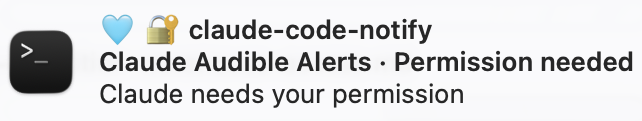
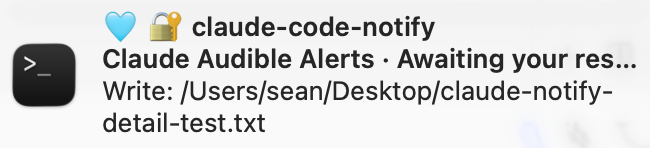
fix: shorter labels, unique grouping by default; drop tool-name detail
Three findings from testing against real notifications.

Naming the pending tool in the body does not work. Claude Code writes a
tool_use to the transcript only after the tool completes, so at prompt time
the newest entry is the PREVIOUS call — a question box reported "Edit:
notify.conf" and a permission prompt reported the Bash command before it.
A wrong tool name is worse than a generic message because it is believable,
so the extraction is removed rather than shipped.

The subtitle truncates around 40 characters. "Awaiting your response" was
clipped to "Awaiting your res…" behind a 21-character session name. Event
labels are now short (Done / Needs you / Waiting) and configurable; the
icon already carries the event type.

GROUP_MODE now defaults to unique. Grouping by session replaces a banner
in place when the previous one is still on screen, with no sound and no
new banner — a notification observed to vanish silently during testing.

Changed region(s): [[0.1558, 0.0744, 0.9969, 0.8926], [0.0, 0.2479, 0.1246, 0.7934]]

diff --git a/dead-ends-and-other-learnings.md b/dead-ends-and-other-learnings.md
@@ -88,6 +88,28 @@ Log the raw payload to a file for a few real invocations before assuming any of 
 
 Note also that `AskUserQuestion` *does* fire the `Notification` hook, which isn't obvious — it's easy to conclude the hook is broken when testing with a picker, because early docs suggest only permission prompts and idle timeouts trigger it.
 
+### You cannot name the pending tool — the transcript lags the prompt
+
+The obvious workaround for the generic `message` is to read the last `tool_use` block from the transcript and show *that*: "Write: /path/to/file", or the text of the question. It parses cleanly and looks right in testing.
+
+It is wrong. **Claude Code writes a `tool_use` to the transcript only after the tool completes**, not when the permission prompt appears. At notification time the newest entry is the *previous* call, so the banner confidently names a tool that isn't the one waiting on you.
+
+Observed directly: a question box produced `Edit: /Users/…/notify.conf` (the edit made just before it), and a permission prompt produced `Bash: Check whether the answered question now appears in transcript`. Both were the preceding tool call. This isn't a race that a short sleep fixes — the data doesn't exist yet, and the `Notification` hook already fires seconds late.
+
+A wrong tool name is worse than a generic message, because it's believable. Show the generic text.
+
+### The subtitle truncates around 40 characters
+
+`<session name> · <label>` is the natural subtitle, but macOS clips it. "Awaiting your response" became "Awaiting your res…" behind a 21-character session name.
+
+Keep event labels to a word or two — "Done", "Needs you", "Waiting". The icon already carries the event type, so the words only need to disambiguate, and the session name is the part you actually need to read.
+
+### Grouping can swallow notifications silently
+
+`--group` replaces an existing banner with the same id, which is appealing for keeping Notification Center tidy. But when the earlier banner is still on screen — likely if you've set the persistent Alerts style — the replacement updates it **in place, without re-alerting**. No sound, no new banner. You simply don't find out.
+
+Observed in practice while testing: a notification appeared to fail entirely, when in fact it had quietly replaced its predecessor. Prefer a unique group per notification unless you have a specific reason to coalesce.
+
 ## Session identity
 
 Two things you'd reasonably expect in the payload aren't there.
